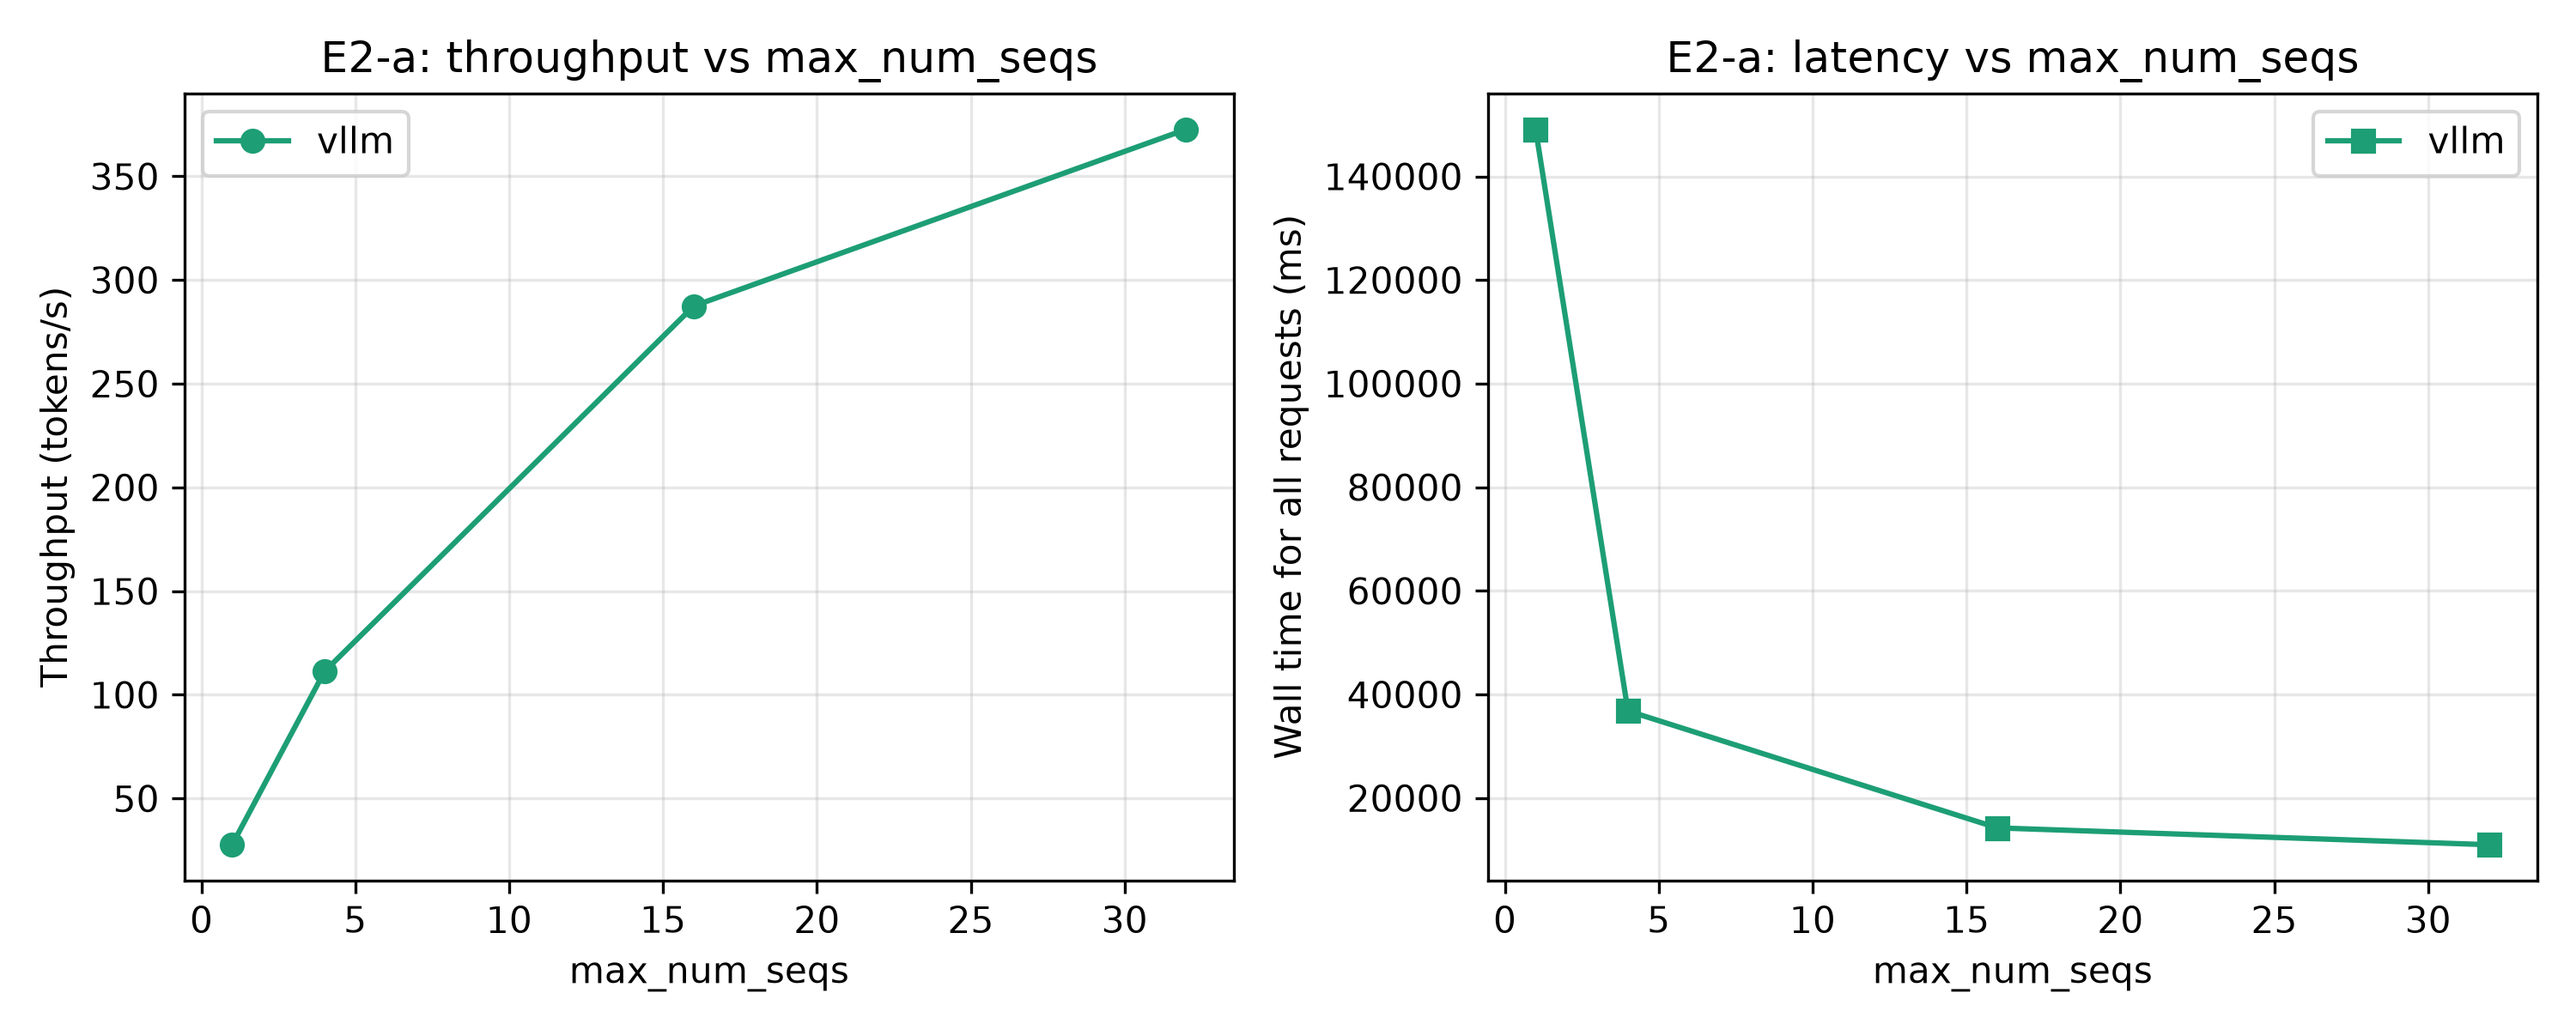
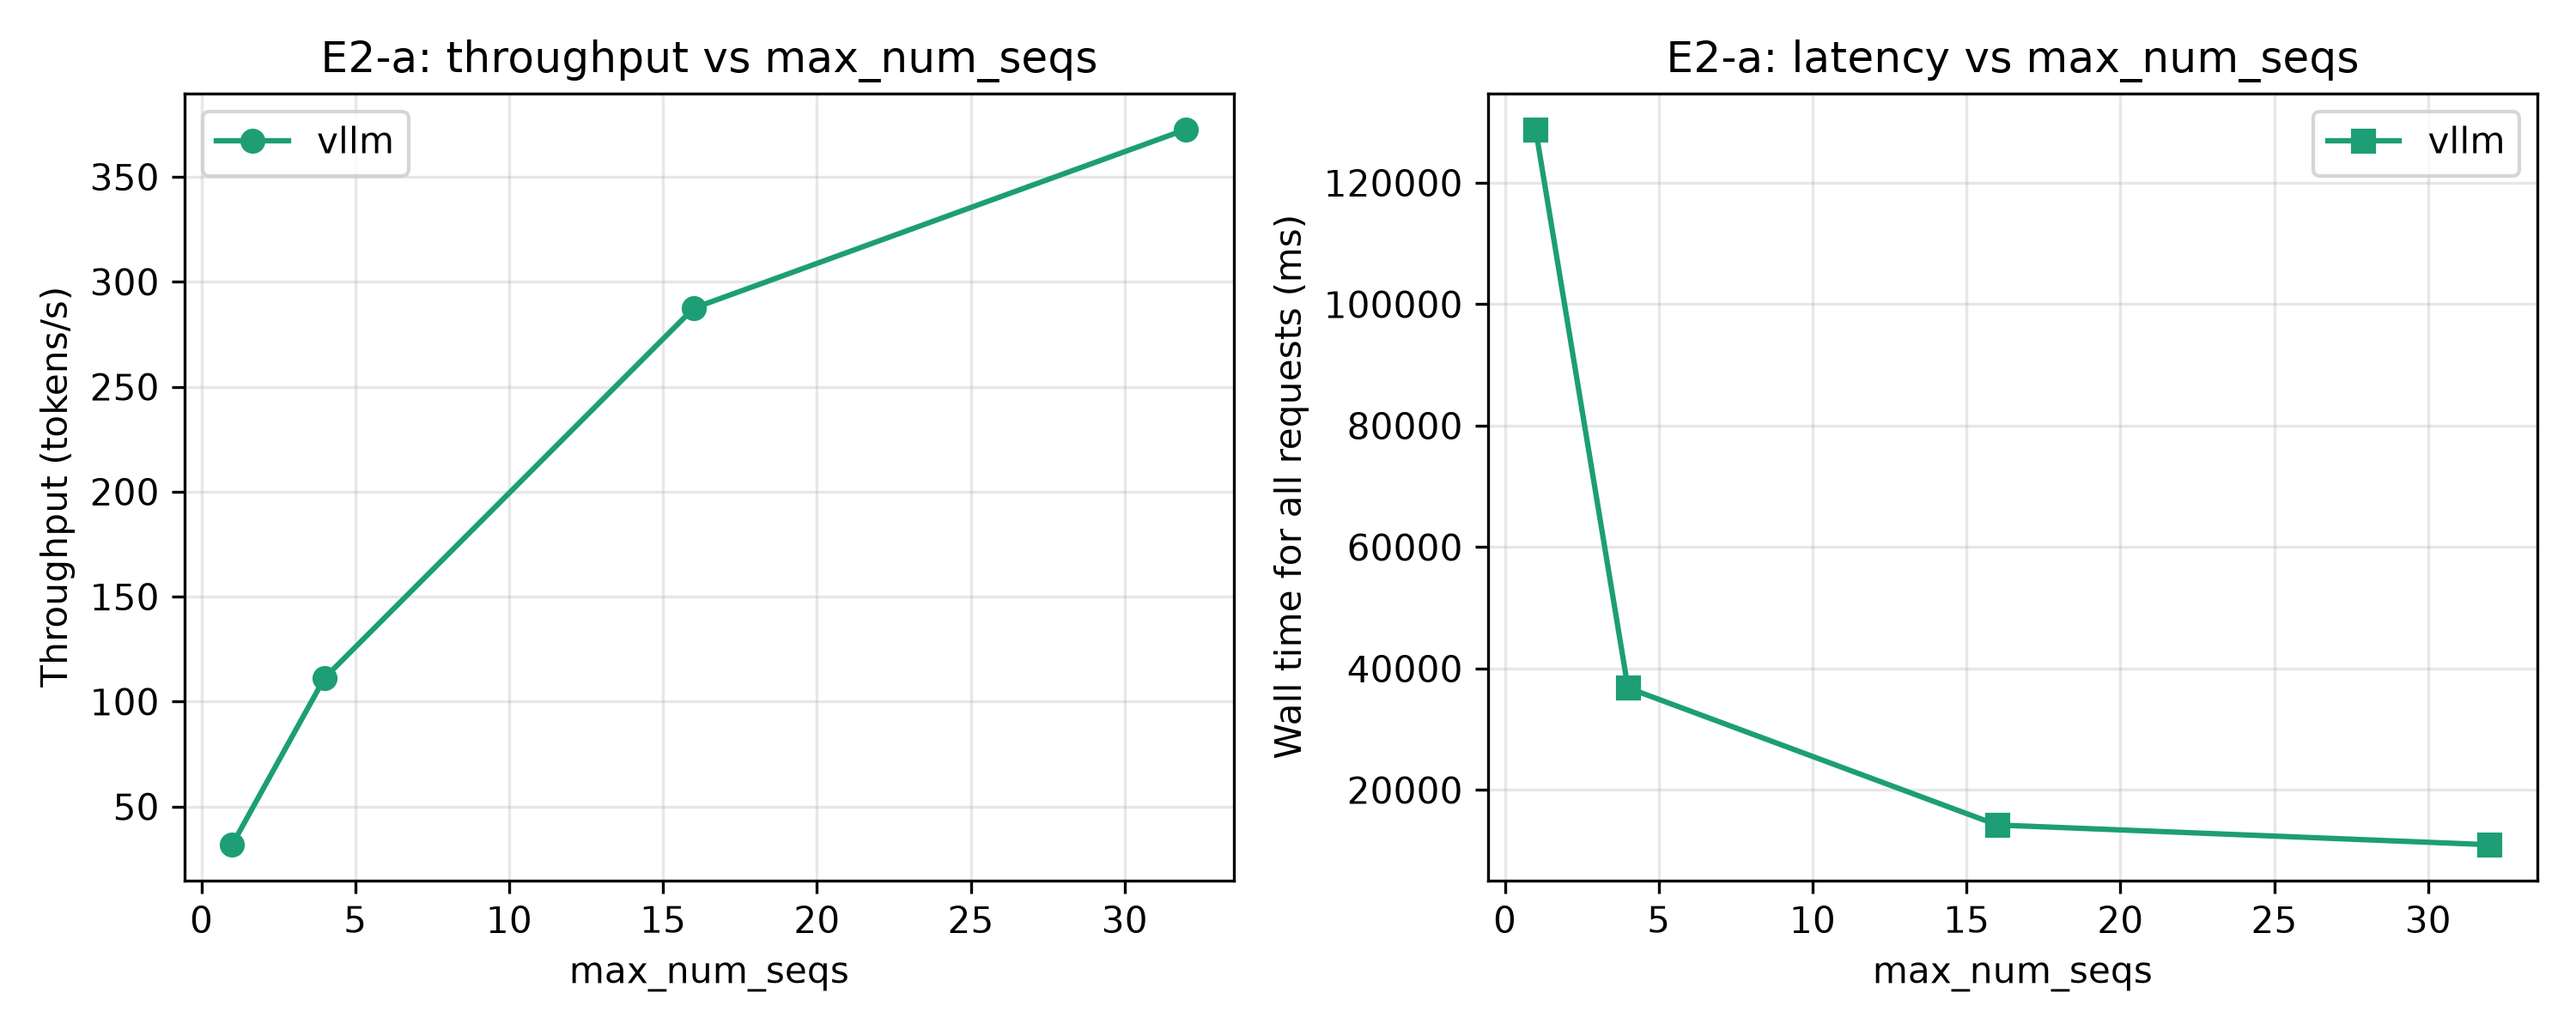
exp: E2-a k=1 补 3 遍，中位数 31.8 tok/s（加速比更新为 11.7x）

diff --git a/实验日志.md b/实验日志.md
@@ -1,0 +1,38 @@
+# 实验日志
+
+> 记录每次补跑、异常与口径变化。原始日志放 `logs/`，数据以 `results.csv` 为准。
+> 实验环境：Tesla T4 16 GB，驱动 570.124.04 / CUDA 12.8；torch 2.8.0+cu128；vllm 0.10.2；transformers 4.55.2。
+
+## 2026-11-23 · T1 · E2-a k=1 补跑
+
+- **目的**：原 k=1 只有 2 遍（135.9 s / 162.3 s），吞吐波动约 18%，超过 10% 阈值；而 k=1 是“连续批处理贡献”的分母，必须钉稳。
+- **命令**：
+  ```bash
+  VLLM_USE_V1=0 python bench.py --backend vllm \
+    --model /root/bayes-tmp/models/qwen2.5-3b \
+    --batch 32 --n-req 32 --max-num-seqs 1 --repeat 3 --exp E2-a
+  ```
+- **新增 3 遍**：33.73 / 32.48 / 31.80 tok/s（121.4 / 126.1 / 128.8 s），极差 5.7%，已稳定。
+- **旧 2 遍**：30.14 / 25.24 tok/s（135.9 / 162.3 s），保留在 CSV，视为早期低值/离群，不删除、不覆盖。
+
+### E2-a 汇总（中位数）
+
+| max_num_seqs | n | 吞吐 (tok/s) | 32 条总耗时 (s) |
+|---|---:|---:|---:|
+| 1 | 5 | **31.80** | 128.81 |
+| 4 | 2 | 111.23 | 36.82 |
+| 16 | 2 | 287.47 | 14.25 |
+| 32 | 2 | 372.67 | 11.00 |
+
+### 影响
+
+- **加速比更新**：k=32 / k=1 由旧口径的 **13.46×** 改为：
+  - 用全部 5 遍中位数：**11.72×**
+  - 只用新 3 遍中位数：**11.47×**
+- `figs/E2_a_sweep.png` 已按 5 遍中位数重画。
+- **待同步到文档**：`开题汇报提纲.md` 第 7.5 页的 k=1 数值（27.7 → 31.8）、总耗时（149.1 → 128.8）、加速比（13.5× → 11.7×）以及第 8.5 页的“13.5×”都需要更新。
+
+### 备注
+
+- 本次 `max_num_seqs=1` 的启动日志显示：权重 5.79 GiB、KV 池 **6.95 GiB**、4096 满长并发上限 **49.40×**。这与默认配置的 5.87 GiB / 41.73× 不同，属 `max_num_seqs` 影响 CUDA graph / 激活显存后 KV 池变大，**不要和默认配置的 41.73× 混用**。
+- 原始日志：`logs/2026-11-23_t1_e2a_k1.log`
